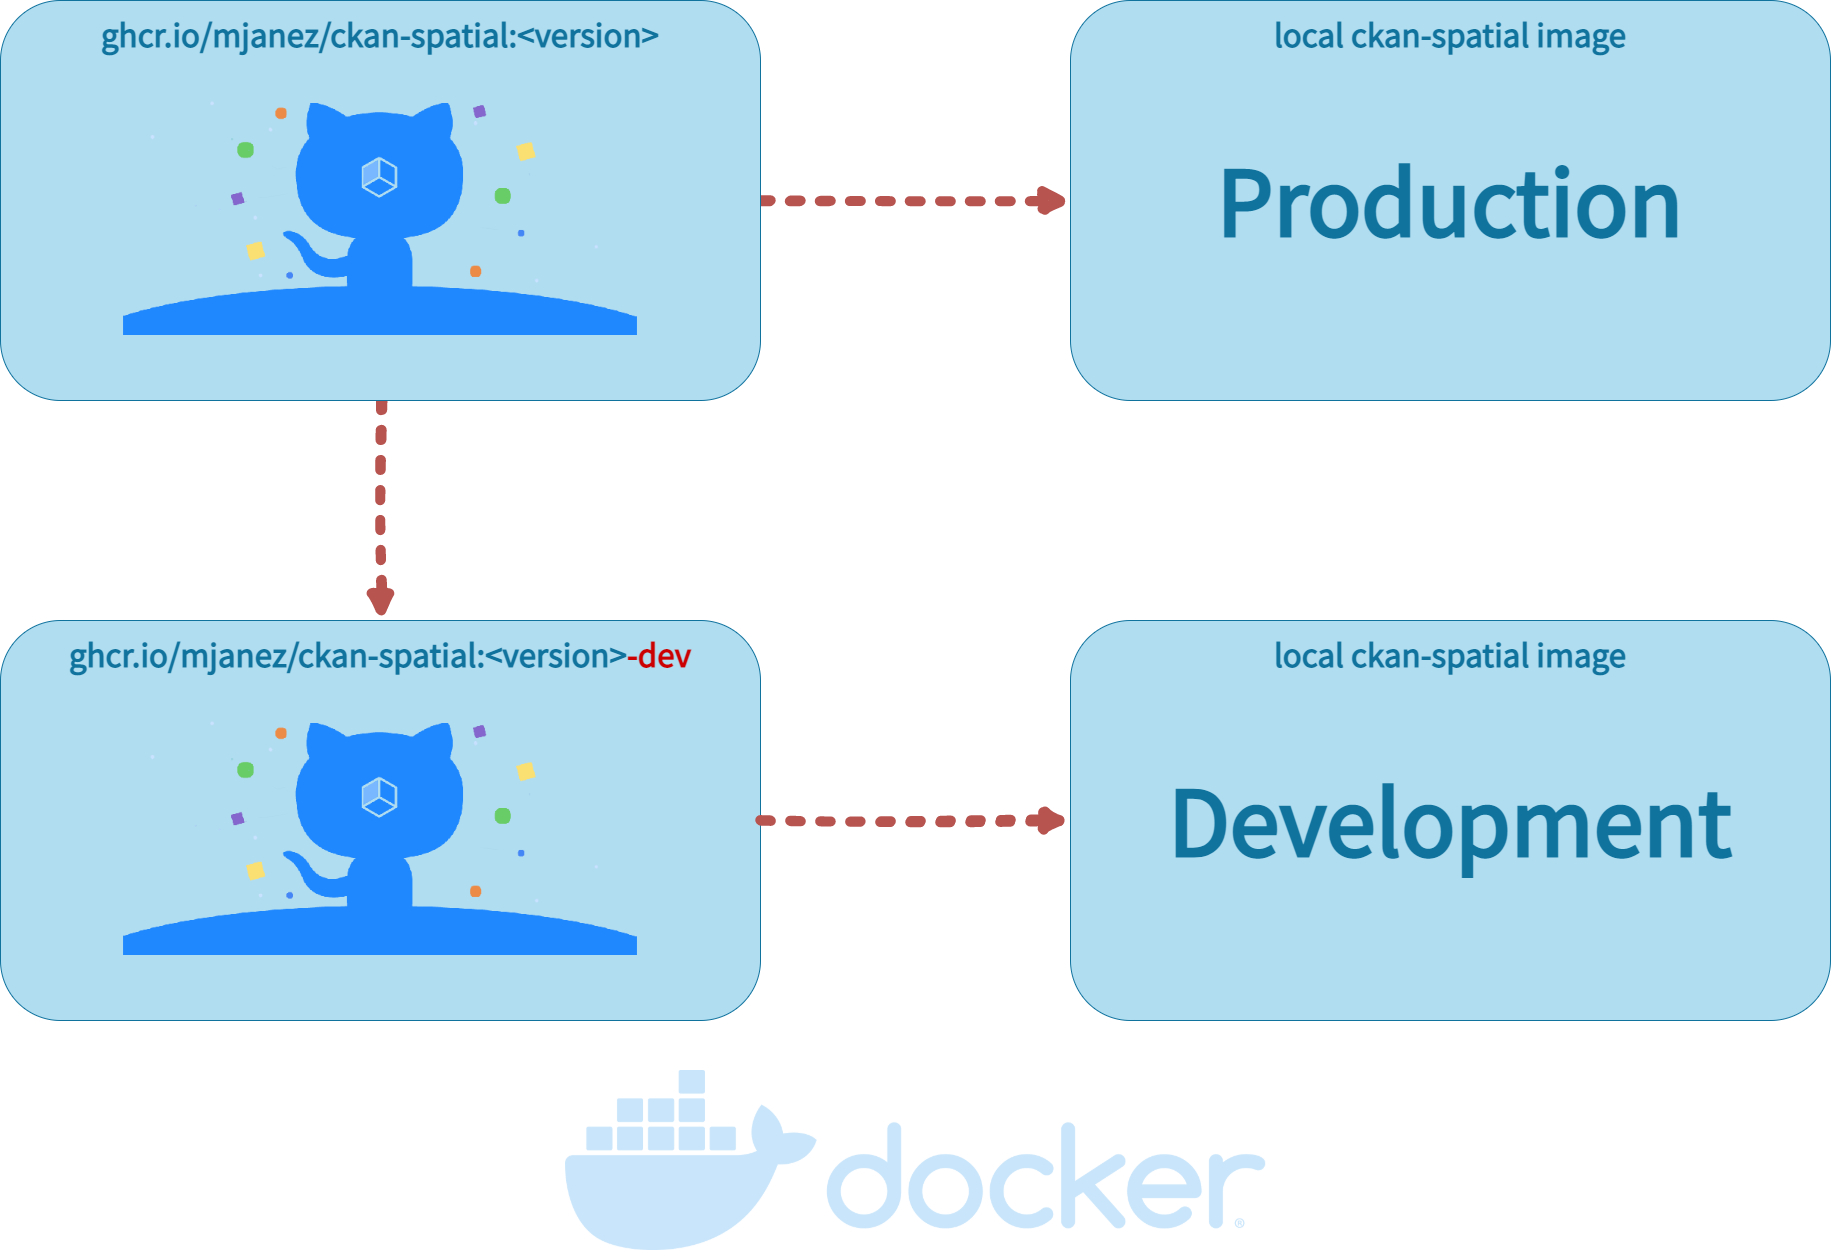
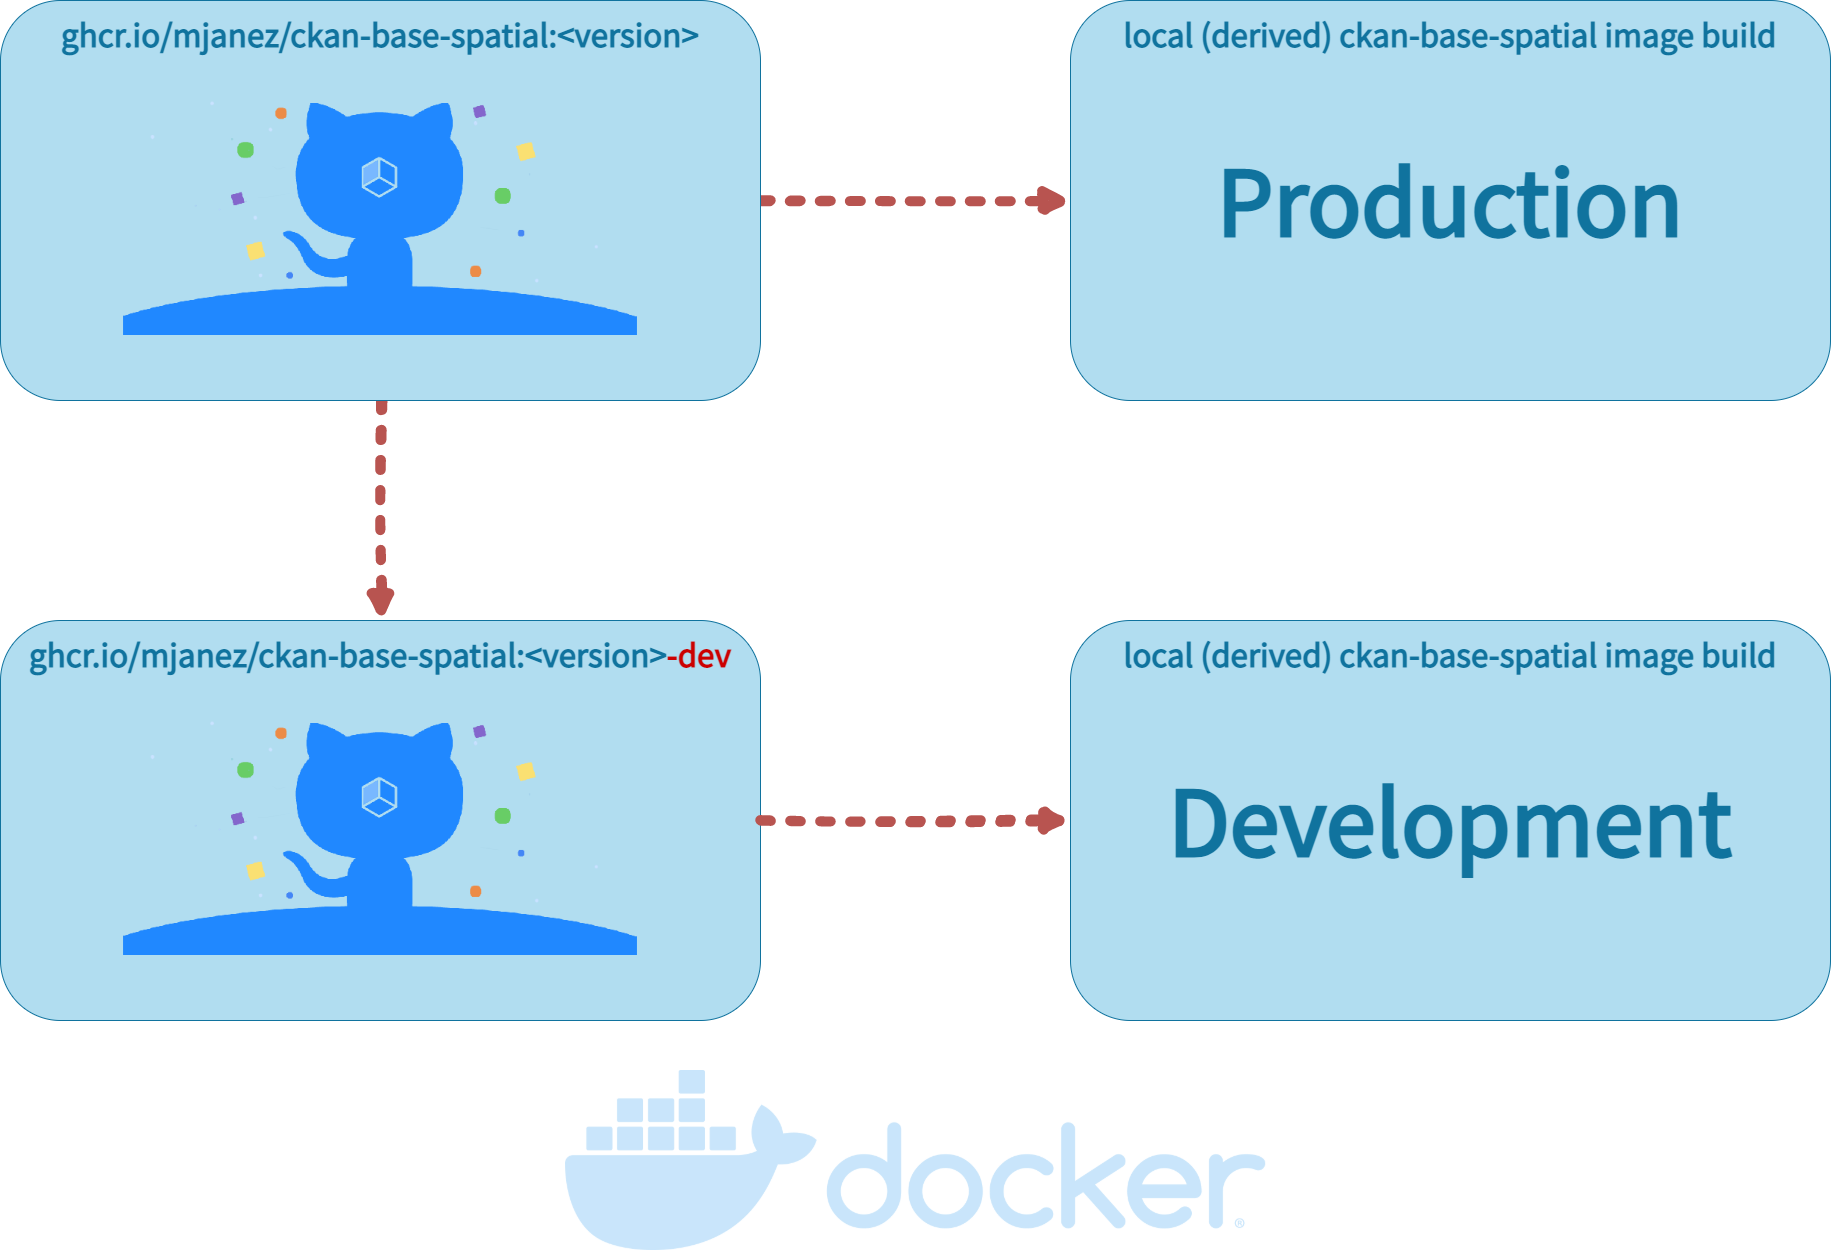
Fix image names

diff --git a/README.md b/README.md
@@ -325,8 +325,8 @@ The new extension files and directories are created in the `/srv/app/src_extensi
 
 The Docker image config files used to build your CKAN project are located in the `ckan/` folder. There are two Docker files:
 
-* `Dockerfile`: this is based on `ckan/ckan-spatial:<version>`, a base image located in the [Github Package Registry](https://github.com/mjanez/ckan-docker/pkgs/container/ckan-spatial), that has CKAN installed along with all its dependencies, properly configured and running on [uWSGI](https://uwsgi-docs.readthedocs.io/en/latest/) (production setup)
-* `Dockerfile.dev`:  this is based on `ckan/ckan-spatial:<version>-dev` also located located in the Github Package Registry, and extends `ckan/ckan-spatial:<version>` to include:
+* `Dockerfile`: this is based on `ckan/ckan-base-spatial:<version>`, a base image located in the [Github Package Registry](https://github.com/mjanez/ckan-docker/pkgs/container/ckan-base-spatial), that has CKAN installed along with all its dependencies, properly configured and running on [uWSGI](https://uwsgi-docs.readthedocs.io/en/latest/) (production setup)
+* `Dockerfile.dev`:  this is based on `ckan/ckan-base-spatial:<version>-dev` also located located in the Github Package Registry, and extends `ckan/ckan-base-spatial:<version>` to include:
 
   * Any extension cloned on the `src` folder will be installed in the CKAN container when booting up Docker Compose (`docker compose up`). This includes installing any requirements listed in a `requirements.txt` (or `pip-requirements.txt`) file and running `python setup.py develop`.
   * CKAN is started running this: `/usr/bin/ckan -c /srv/app/ckan.ini run -H 0.0.0.0`.
@@ -335,7 +335,7 @@ The Docker image config files used to build your CKAN project are located in the
 
 ## CKAN images enhancement
 ### Extending the base images
-You can modify the docker files to build your own customized image tailored to your project, installing any extensions and extra requirements needed. For example here is where you would update to use a different CKAN base image ie: `ckan/ckan-base:<new version>`
+You can modify the docker files to build your own customized image tailored to your project, installing any extensions and extra requirements needed. For example here is where you would update to use a different CKAN base image ie: `ckan/ckan-base-spatial:<new version>`
 
 To perform extra initialization steps you can add scripts to your custom images and copy them to the `/docker-entrypoint.d` folder (The folder should be created for you when you build the image). Any `*.sh` and `*.py` file in that folder will be executed just after the main initialization script ([`prerun.py`](https://github.com/ckan/ckan-docker-base/blob/main/ckan-2.9/base/setup/prerun.py)) is executed and just before the web server and supervisor processes are started.
 
@@ -361,7 +361,7 @@ ckan -c /srv/app/ckan.ini validation init-db
 And then in our `Dockerfile.dev` file we install the extension and copy the initialization scripts:
 
 ```Dockerfile
-FROM ckan/ckan-base:2.9.8-dev
+FROM ckan/ckan-base-spatial:2.9.8
 
 RUN pip install -e git+https://github.com/frictionlessdata/ckanext-validation.git#egg=ckanext-validation && \
     pip install -r https://raw.githubusercontent.com/frictionlessdata/ckanext-validation/master/requirements.txt
